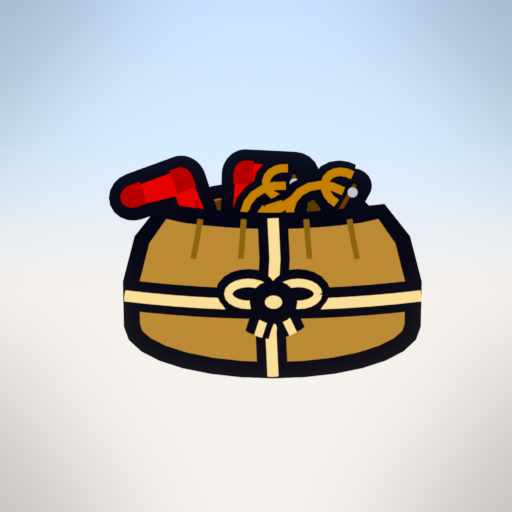
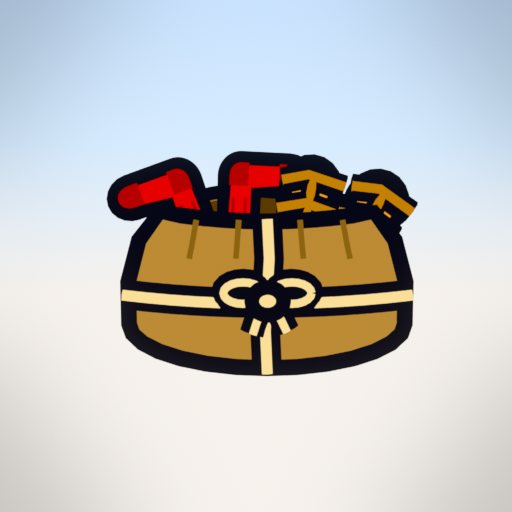
Library: care_package final round (7/10)
Claude-Session: https://claude.ai/code/session_013w7Vyd24Fyt9tqdhFprxbt

Changed region(s): [[0.1875, 0.2812, 0.8438, 0.75]]

diff --git a/library/props/care_package/build.py b/library/props/care_package/build.py
@@ -1,12 +1,12 @@
 """Care package from home for a Roman soldier - 2D hand-held prop in the character plane (flat colours, ink outline 0.035).
 
 item='box'        : canvas/leather bundle 0.6 x 0.4 tied with a cord cross (bow knot in the middle), open mouth with a pair of
-                    red wool socks and a pair of strappy hobnailed leather sandals poking out.
+                    red wool socks and a pair of strappy leather sandals (seen from above, toes up) poking out.
                     Parts: {name}_bundle, {name}_socks, {name}_sandals.
 item='underpants' : linen Roman subligaculum (ivory), rolled waistband, side ties, optional darned patch; 0.35 x 0.25,
                     origin at its centre (story flies it up and spins it around local Z). Part: {name}_underpants.
 item='socks'      : the pair of socks alone. Part: {name}_socks.
-item='sandals'    : the pair of sandals alone. Part: {name}_sandals.
+item='sandals'    : the pair of sandals alone (side view, hobnailed soles). Part: {name}_sandals.
 With a parent (torso) the root sits at `at` = [0, 0.5, 0.42] (x right, y up, z forward).
 Only the parts of the chosen item are created. Layers are spaced 0.02+ in z because outline tubes have depth."""
 from core.look import flat
@@ -79,6 +79,19 @@ def _sandal(par, nm, z, M):
         disc(par, f"{nm}_n{k}", -0.11 + 0.055 * k, 0.02, 0.011, z + 0.03, M["nail"])
 
 
+def _sandal_top(par, nm, z, M):
+    """one sandal seen from above (footprint silhouette, toe toward +y), origin at the heel end.
+    Reads instantly as a sandal even when half hidden in the sack."""
+    sole = arc(0.0, 0.045, 0.044, 0.045, 180, 360, n=8) + arc(0.012, 0.2, 0.058, 0.062, 0, 180, n=10)
+    shape(par, nm + "_sole", sole, M["sole"], z)
+    insole = arc(0.0, 0.05, 0.03, 0.033, 180, 360, n=8) + arc(0.012, 0.2, 0.043, 0.047, 0, 180, n=10)
+    shape(par, nm + "_insole", insole, M["insole"], z + 0.015, outline=0)
+    for i, (y, hw) in enumerate(((0.075, 0.058), (0.15, 0.068), (0.215, 0.07))):
+        _ostroke(par, f"{nm}_s{i}", [(-hw + 0.006 * i, y - 0.01), (0.0, y + 0.008), (hw + 0.008 * i, y - 0.01)],
+                 0.026, z + 0.03, M["leather"])
+    _ostroke(par, nm + "_mid", [(0.004, 0.075), (0.008, 0.15), (0.012, 0.215)], 0.02, z + 0.03, M["leather"], ol=0.025)
+
+
 def _bundle(g, name, M, tag_text):
     # back rim of the sack + dark open mouth
     shape(g, f"{name}_rim", ellipse(0, 0.14, 0.245, 0.07, 32), M["bag_back"], -0.04)
@@ -99,10 +112,9 @@ def _bundle(g, name, M, tag_text):
     hpts = [(x, -0.045 - 0.018 * (1 - (x / 0.3) ** 2)) for x in [-0.3 + 0.6 * i / 12 for i in range(13)]]
     _ostroke(g, f"{name}_cordh", hpts, 0.028, zc, M["cord"])
     # bow knot
-    _ostroke(g, f"{name}_bowL", ellipse(-0.05, -0.04, 0.04, 0.022, 20) + [ellipse(-0.05, -0.04, 0.04, 0.022, 20)[0]],
-             0.02, zc + 0.02, M["cord"])
-    _ostroke(g, f"{name}_bowR", ellipse(0.05, -0.04, 0.04, 0.022, 20) + [ellipse(0.05, -0.04, 0.04, 0.022, 20)[0]],
-             0.02, zc + 0.02, M["cord"])
+    for sd, cx in (("L", -0.05), ("R", 0.05)):
+        loop = ellipse(cx, -0.04, 0.04, 0.022, 20)
+        _ostroke(g, f"{name}_bow{sd}", loop + [loop[0]], 0.02, zc + 0.02, M["cord"])
     _ostroke(g, f"{name}_tailL", [(-0.01, -0.07), (-0.022, -0.1), (-0.03, -0.125)], 0.02, zc + 0.02, M["cord"])
     _ostroke(g, f"{name}_tailR", [(0.01, -0.07), (0.028, -0.095), (0.04, -0.12)], 0.02, zc + 0.02, M["cord"])
     shape(g, f"{name}_knot", ellipse(0, -0.055, 0.032, 0.028, 20), M["cord"], zc + 0.07, outline=0.03)
@@ -150,6 +162,7 @@ def build(params, lib):
         sock=_mat("sock", p["sock_color"]), sock_dark=_mat("sock", p["sock_color"], 0.6),
         cuff=_mat("cuff", p["sock_cuff_color"]),
         leather=_mat("leather", p["leather_color"]), sole=_mat("sole", p["sole_color"]),
+        insole=_mat("insole", p["leather_color"], 1.6),
         nail=flat("care_package_nail", (0.55, 0.55, 0.58)),
         linen=_mat("linen", p["underpants_color"]), linen_dark=_mat("linen", p["underpants_color"], 0.72),
         linen_band=_mat("linen", p["underpants_color"], 0.88), patch=_mat("patch", (0.62, 0.42, 0.2)),
@@ -180,8 +193,9 @@ def build(params, lib):
         _bundle(bundle, name, M, p["tag_text"])
         _sock(sub(socks, "sock1", (-0.07, 0.06, 0.03), -0.05), f"{name}_sk1", 0.0, M)
         _sock(sub(socks, "sock0", (-0.15, 0.05, 0.07), 0.35, mirror=True), f"{name}_sk0", 0.0, M)
-        _sandal(sub(sandals, "sandal1", (0.06, 0.09, 0.12), 1.45), f"{name}_sd1", 0.0, M)
-        _sandal(sub(sandals, "sandal0", (0.14, 0.07, 0.18), 1.05), f"{name}_sd0", 0.0, M)
+        # sandals from above, toes up, fanned to the right: the footprint silhouette reads at a glance
+        _sandal_top(sub(sandals, "sandal1", (0.07, 0.0, 0.12), -0.12), f"{name}_sd1", 0.0, M)
+        _sandal_top(sub(sandals, "sandal0", (0.16, -0.02, 0.17), -0.42), f"{name}_sd0", 0.0, M)
     elif item == "socks":
         socks = part("socks")
         _sock(sub(socks, "sock0", (-0.11, -0.11, 0.0)), f"{name}_sk0", 0.0, M)
